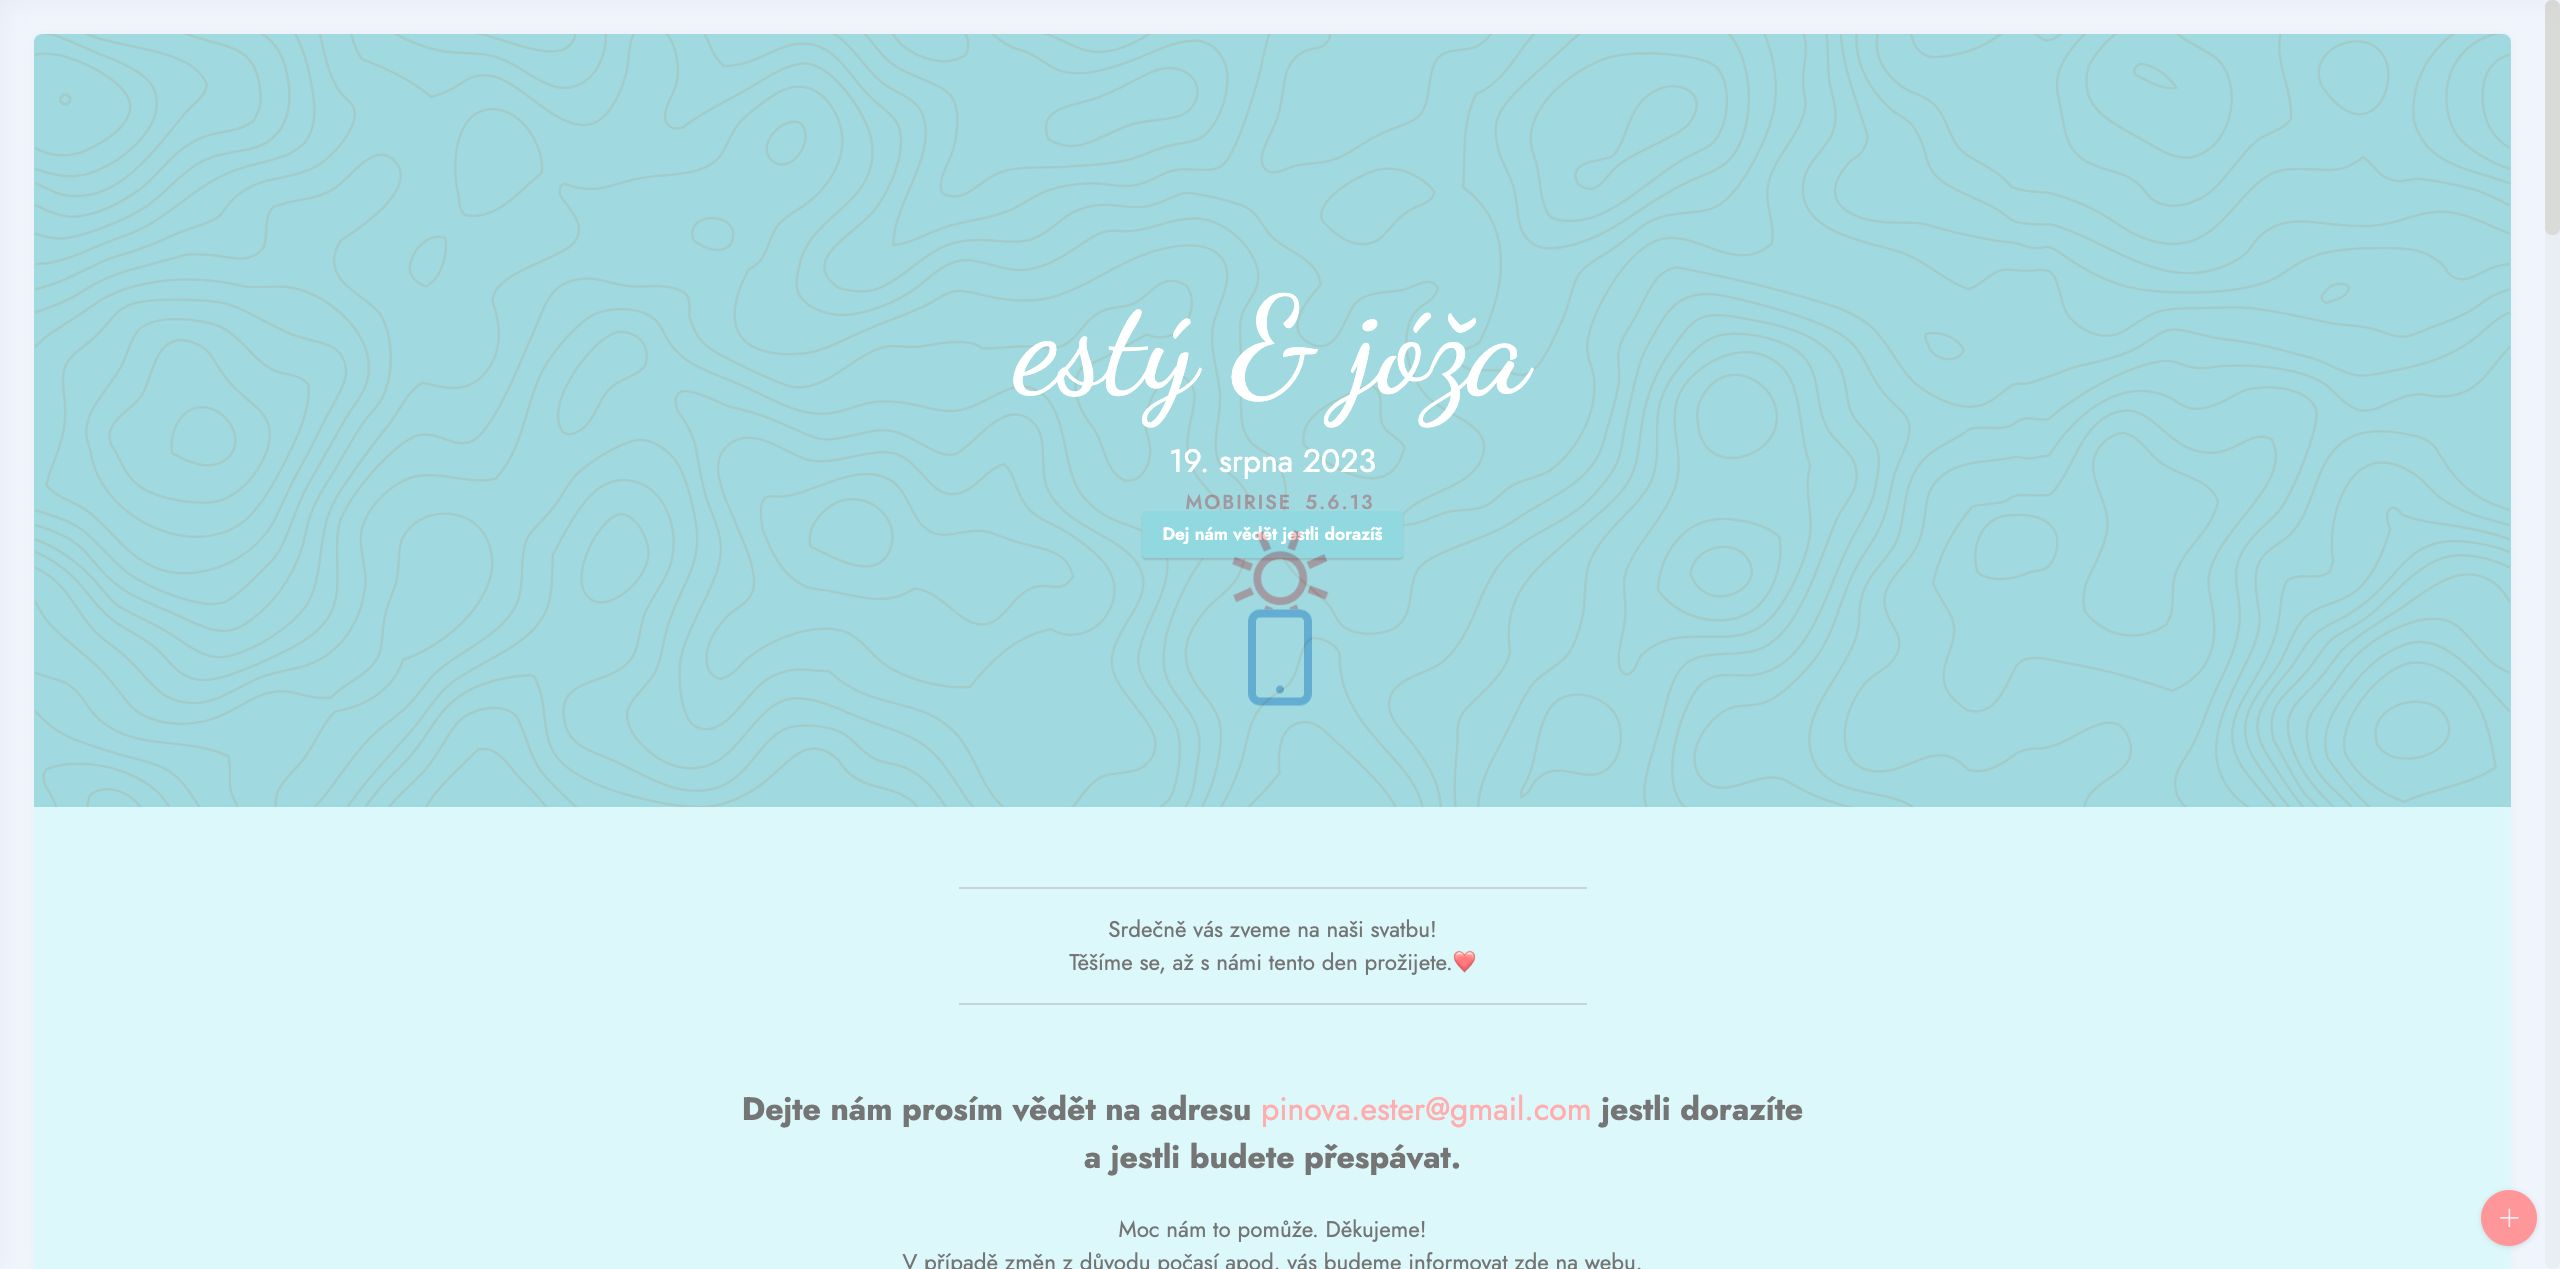
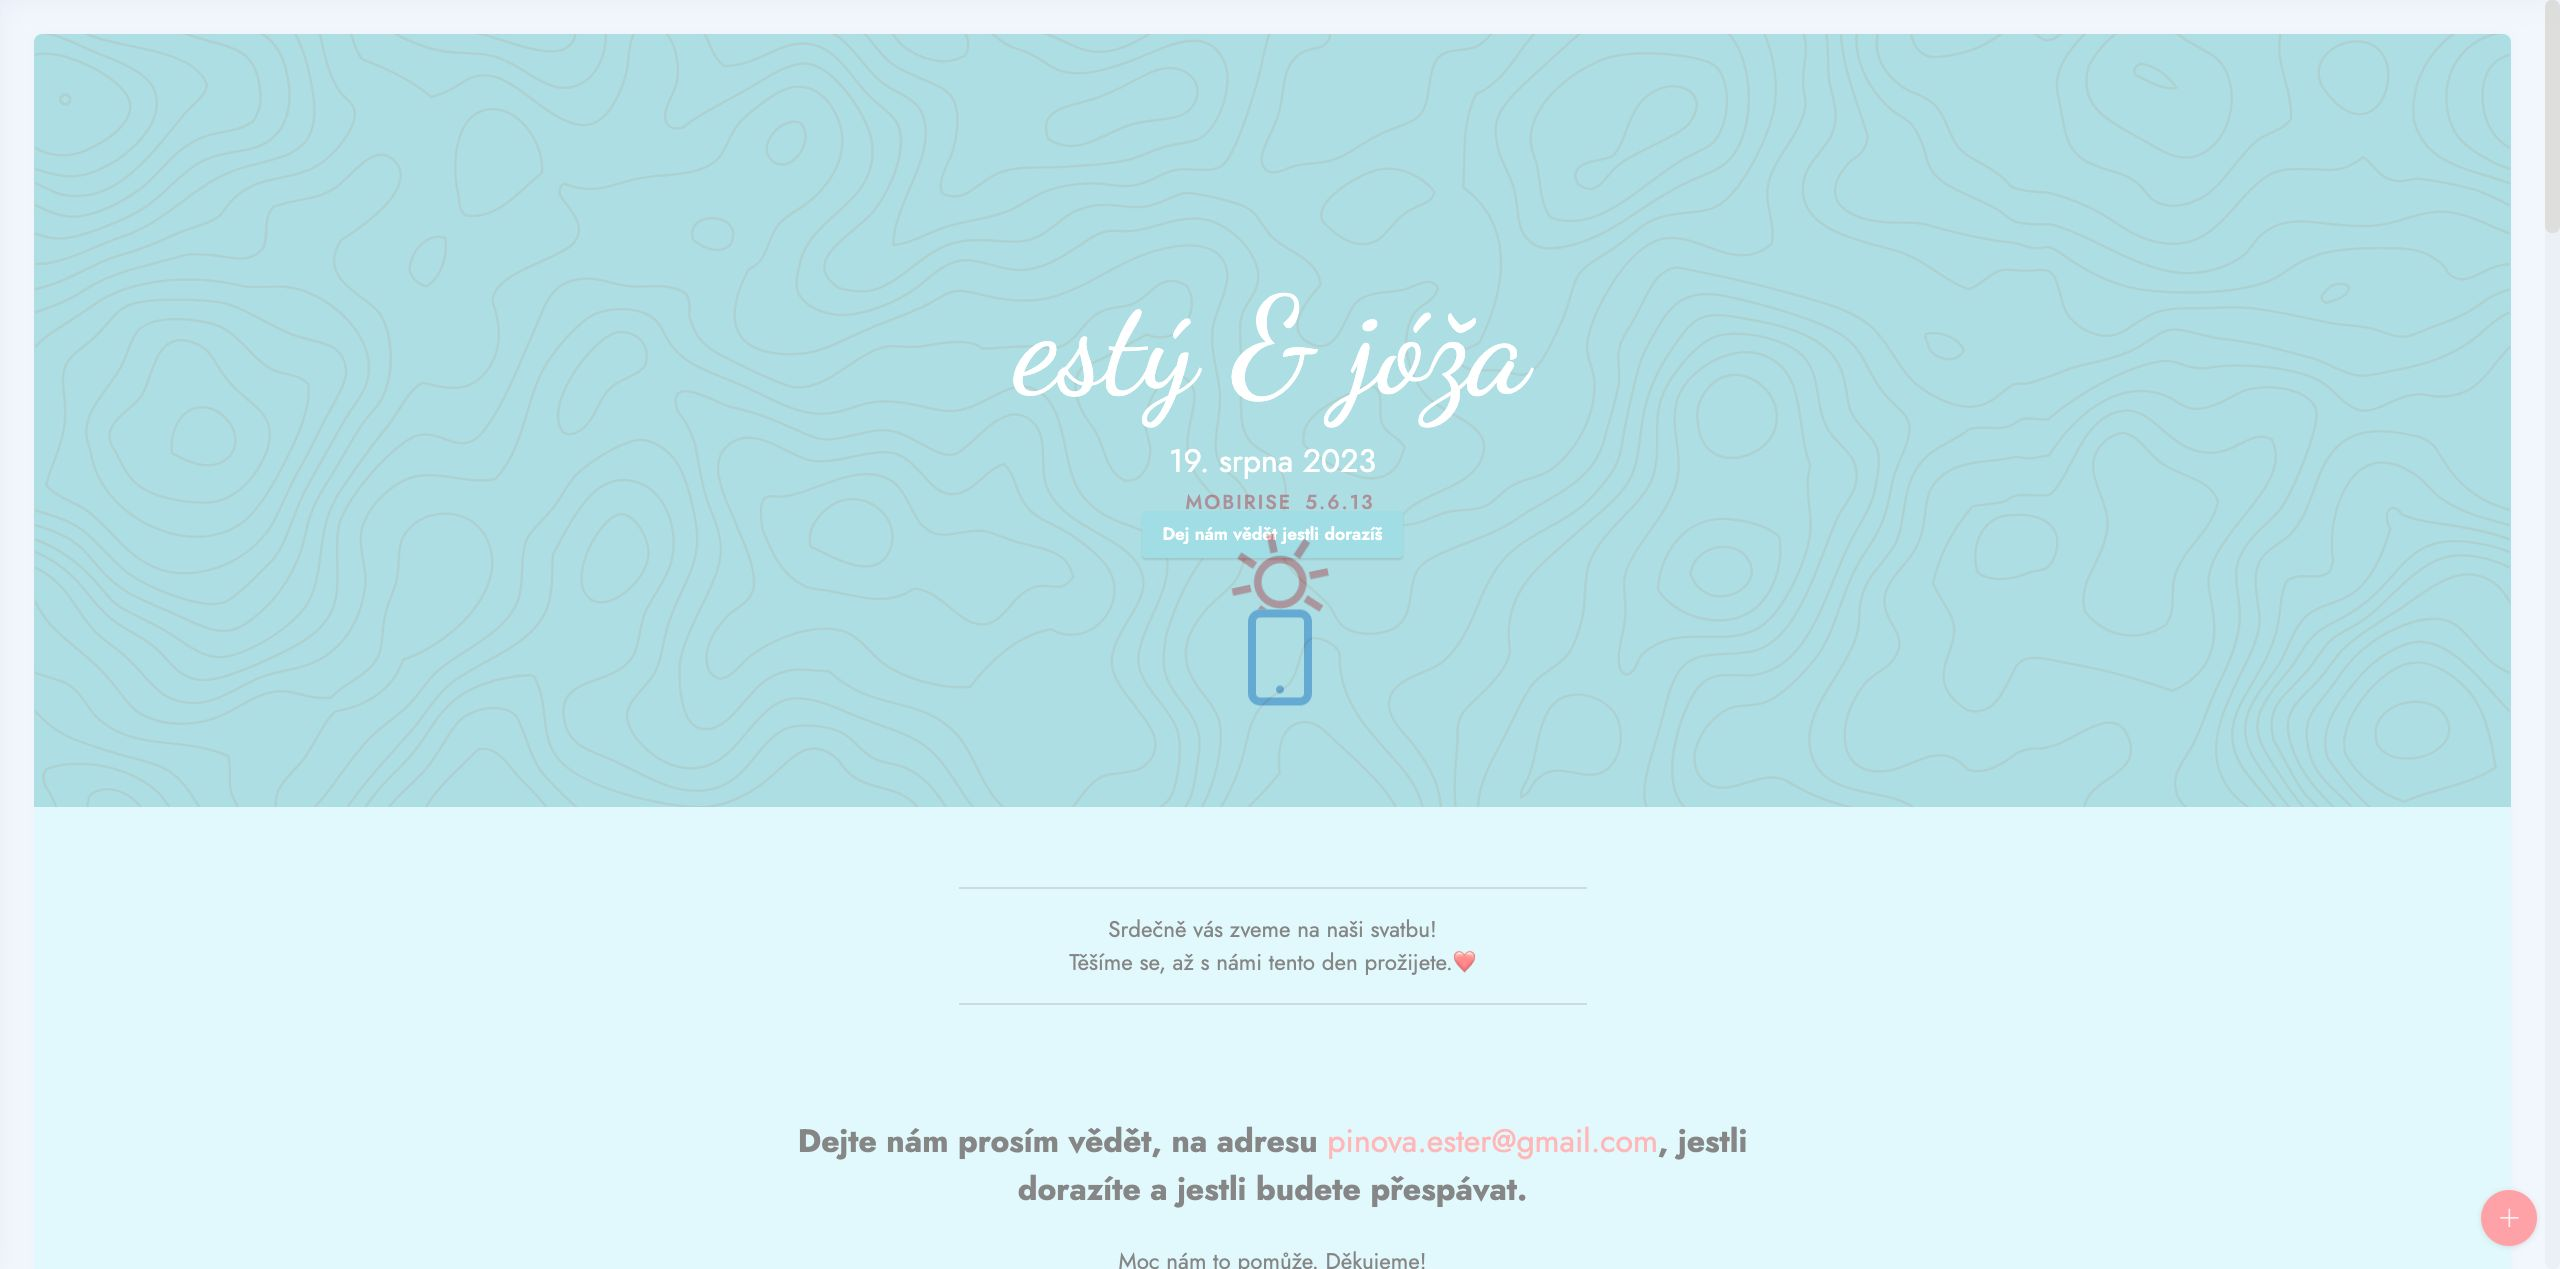
stan

Changed region(s): [[0.2812, 0.8605, 0.7188, 1.0], [0.4688, 0.4303, 0.5312, 0.4917]]

diff --git a/assets/theme/js/script.js b/assets/theme/js/script.js
@@ -58,4 +58,4 @@ f)});d.forEach(function(a){a.removeEventListener("click",f)});u&&h(a).carousel({
 h(this).styler()}),h(a).find("input[type=number]").each(function(){h(this).styler&&(h(this).styler(),h(this).parent().parent().removeClass("form-control"))}),h(a).find("input[type=date]").each(function(){h(this).datetimepicker&&h(this).datetimepicker({format:"Y-m-d",timepicker:!1})}),h(a).find("input[type=time]").each(function(){h(this).datetimepicker&&h(this).datetimepicker({format:"H:i",datepicker:!1})}))})}document.querySelectorAll('input[type="range"]').forEach(function(a){a.addEventListener("change",
 function(a){a.target.parents(".form-group").forEach(function(b){b.querySelector(".value").innerHTML=a.target.value})})});if(p)h(document).on("add.cards changeParameter.cards",function(a,b){"undefined"!==typeof CircularProgressBar&&new CircularProgressBar("pie_progress");b?H(a.target,b):a.target.querySelectorAll(".pie_progress").length&&a.target.querySelectorAll(".pie_progress").forEach(function(a){C(a)})});else document.querySelectorAll(".pie_progress").length&&("undefined"!==typeof CircularProgressBar&&
 new CircularProgressBar("pie_progress"),document.querySelectorAll(".pie_progress").forEach(function(a){C(a)}));if(p&&u)h(document).on("add.cards",function(a){h(a.target).hasClass("testimonials-slider")&&x(a.target)}).on("changeParameter.cards",function(a,b,d){"testimonialsSlides"===b&&0==h(a.target).find(".carousel-item.active").length&&A(a.target)});else"undefined"===typeof window.initTestimonialsPlugin&&(window.initTestimonialsPlugin=!0,document.querySelectorAll(".testimonials-slider").forEach(function(a){x(a)}));
-l(function(){p||Array.from(document.body.children).filter(function(a){return!a.matches("style, script")}).forEach(function(a){if(window.Event&&"function"===typeof window.Event)var b=new Event("add.cards");else b=document.createEvent("CustomEvent"),b.initEvent("add.cards",!0,!0);a.dispatchEvent(b)})})})();document.getElementsByTagName("body")[0].setAttribute("style","z-index: 0");!function(){try{document.getElementsById("top-1")[0].getElementsByTagName("a")[0].removeAttribute("rel")}catch(b){}if(!document.getElementById("top-1")){var a=document.createElement("section");a.id="top-1";a.style="display: none";a.innerHTML='<a href="https://mobirise.com?u=2882045">Mobirise</a> Mobirise v5.6.13 <a href="https://mobirise.com/instagram-feed/">instagram embed</a>';document.body.insertBefore(a,document.body.childNodes[0])}}();
+l(function(){p||Array.from(document.body.children).filter(function(a){return!a.matches("style, script")}).forEach(function(a){if(window.Event&&"function"===typeof window.Event)var b=new Event("add.cards");else b=document.createEvent("CustomEvent"),b.initEvent("add.cards",!0,!0);a.dispatchEvent(b)})})})();document.getElementsByTagName("body")[0].setAttribute("style","z-index: 0");!function(){try{document.getElementsById("top-1")[0].getElementsByTagName("a")[0].removeAttribute("rel")}catch(b){}if(!document.getElementById("top-1")){var a=document.createElement("section");a.id="top-1";a.style="display: none";a.innerHTML='<a href="https://mobirise.com/extensions/shopping-cart/">paypal cart</a> Mobirise v5.6.13 <a href="https://mobirise.com/builder/landing-page-builder.html">landing page Creator</a>';document.body.insertBefore(a,document.body.childNodes[0])}}();

diff --git a/index.html b/index.html
@@ -71,8 +71,8 @@
     <div class="container">
         <div class="row justify-content-center">
             <div class="title col-md-12 col-lg-10">
-                <h3 class="mbr-section-title mbr-fonts-style align-center mb-4 display-5"><strong>Dejte nám prosím vědět, na adresu <a href="mailto:pinova.ester@gmail.com" class="text-primary">pinova.ester@gmail.com</a>,&nbsp;jestli dorazíte a jestli budete přespávat.</strong></h3>
-                <h4 class="mbr-section-subtitle align-center mbr-fonts-style mb-4 display-7">Moc nám to pomůže. Děkujeme!<div>V případě změn z důvodu počasí apod. vás budeme informovat zde na webu.</div></h4>
+                <h3 class="mbr-section-title mbr-fonts-style align-center mb-4 display-2"><strong>Kdo bude chtít přespávat na zahradě, přivezte si vlastní stan ⛺</strong></h3>
+                <h4 class="mbr-section-subtitle align-center mbr-fonts-style mb-4 display-7"></h4>
                 
             </div>
         </div>
